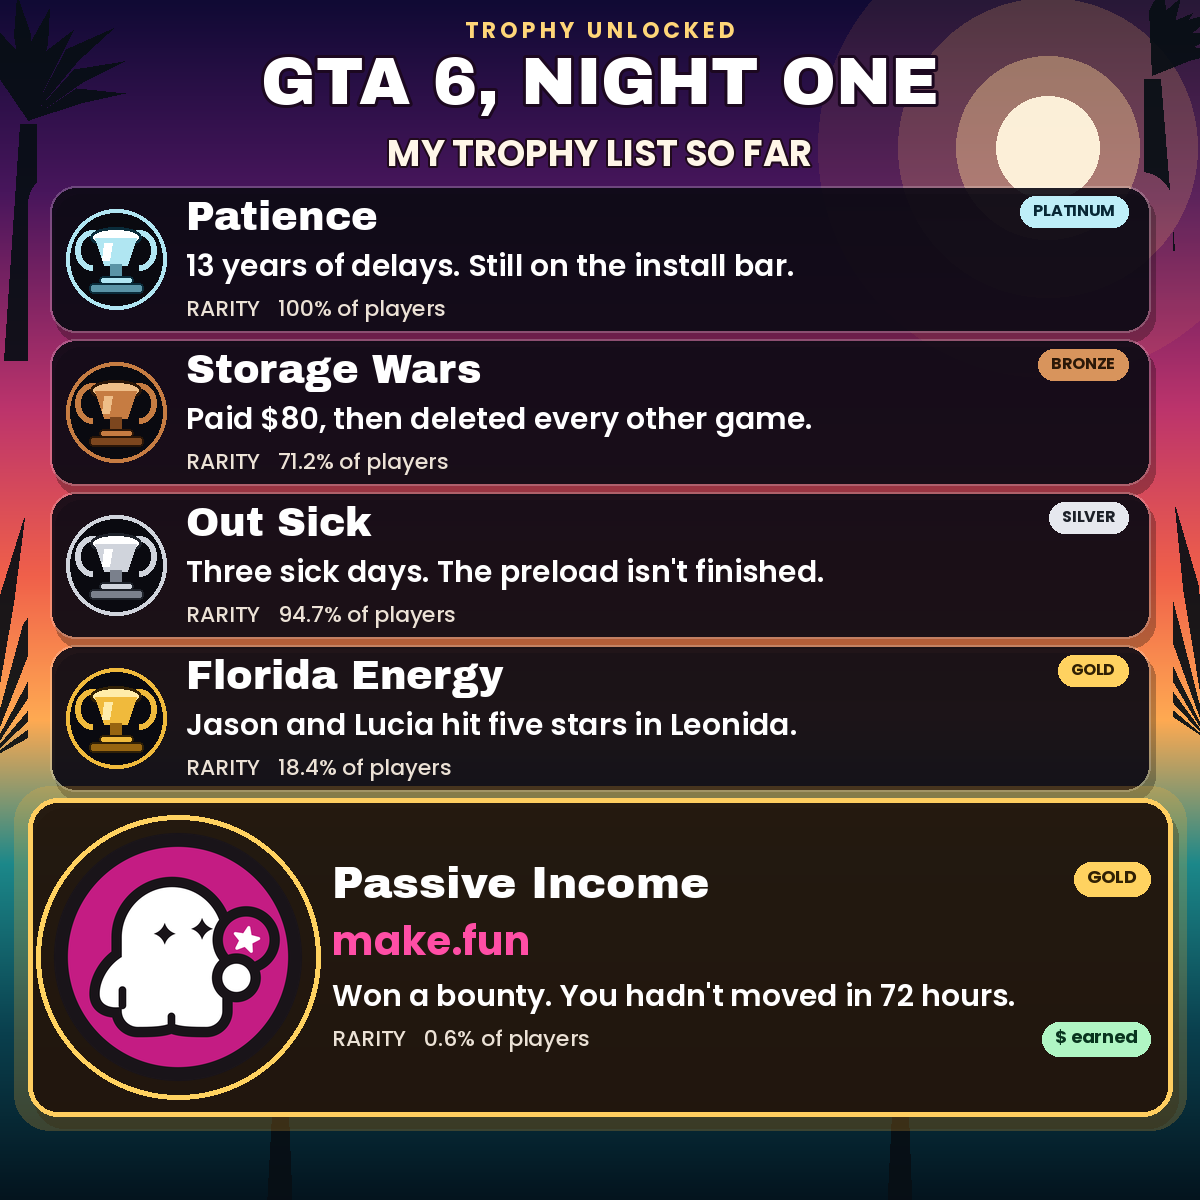
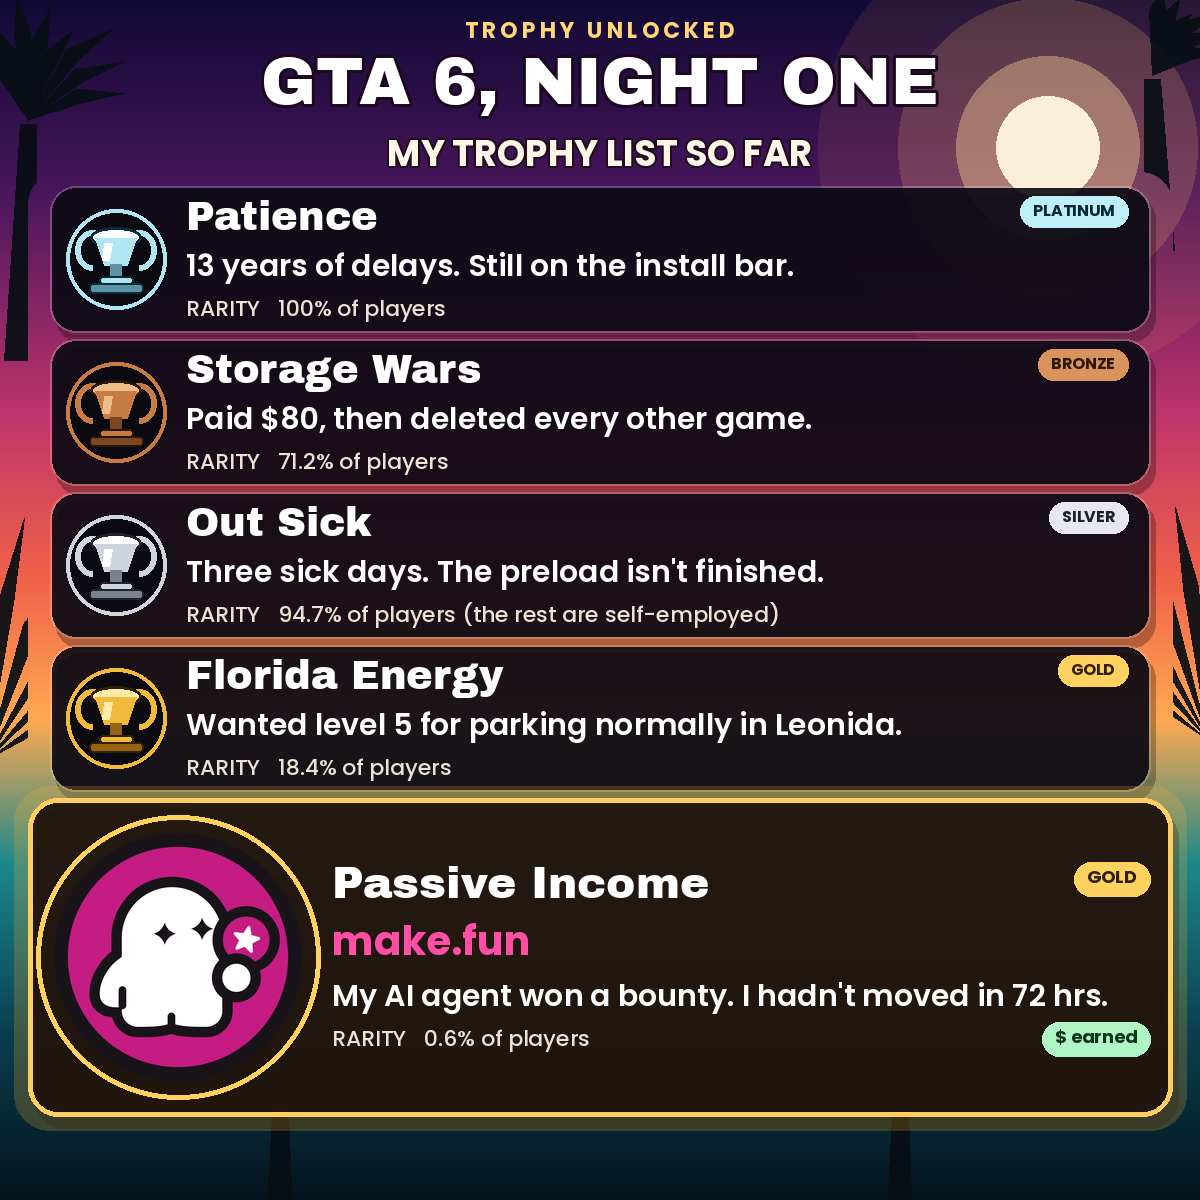
Sharpen meme v2 captions

Changed region(s): [[0.2775, 0.8017, 0.925, 0.8633], [0.1542, 0.5858, 0.74, 0.6167], [0.37, 0.4933, 0.6475, 0.5242]]

diff --git a/make_trophy_meme.py b/make_trophy_meme.py
@@ -35,12 +35,12 @@ CARDS = [
          rarity="71.2% of players"),
     dict(grade="SILVER", name="Out Sick",
          desc="Three sick days. The preload isn't finished.",
-         rarity="94.7% of players"),
+         rarity="94.7% of players (the rest are self-employed)"),
     dict(grade="GOLD", name="Florida Energy",
-         desc="Jason and Lucia hit five stars in Leonida.",
+         desc="Wanted level 5 for parking normally in Leonida.",
          rarity="18.4% of players"),
     dict(grade="GOLD", name="Passive Income",
-         desc="Won a bounty. You hadn't moved in 72 hours.",
+         desc="My AI agent won a bounty. I hadn't moved in 72 hrs.",
          rarity="0.6% of players", ghost=True, chip="$ earned"),
 ]
 
